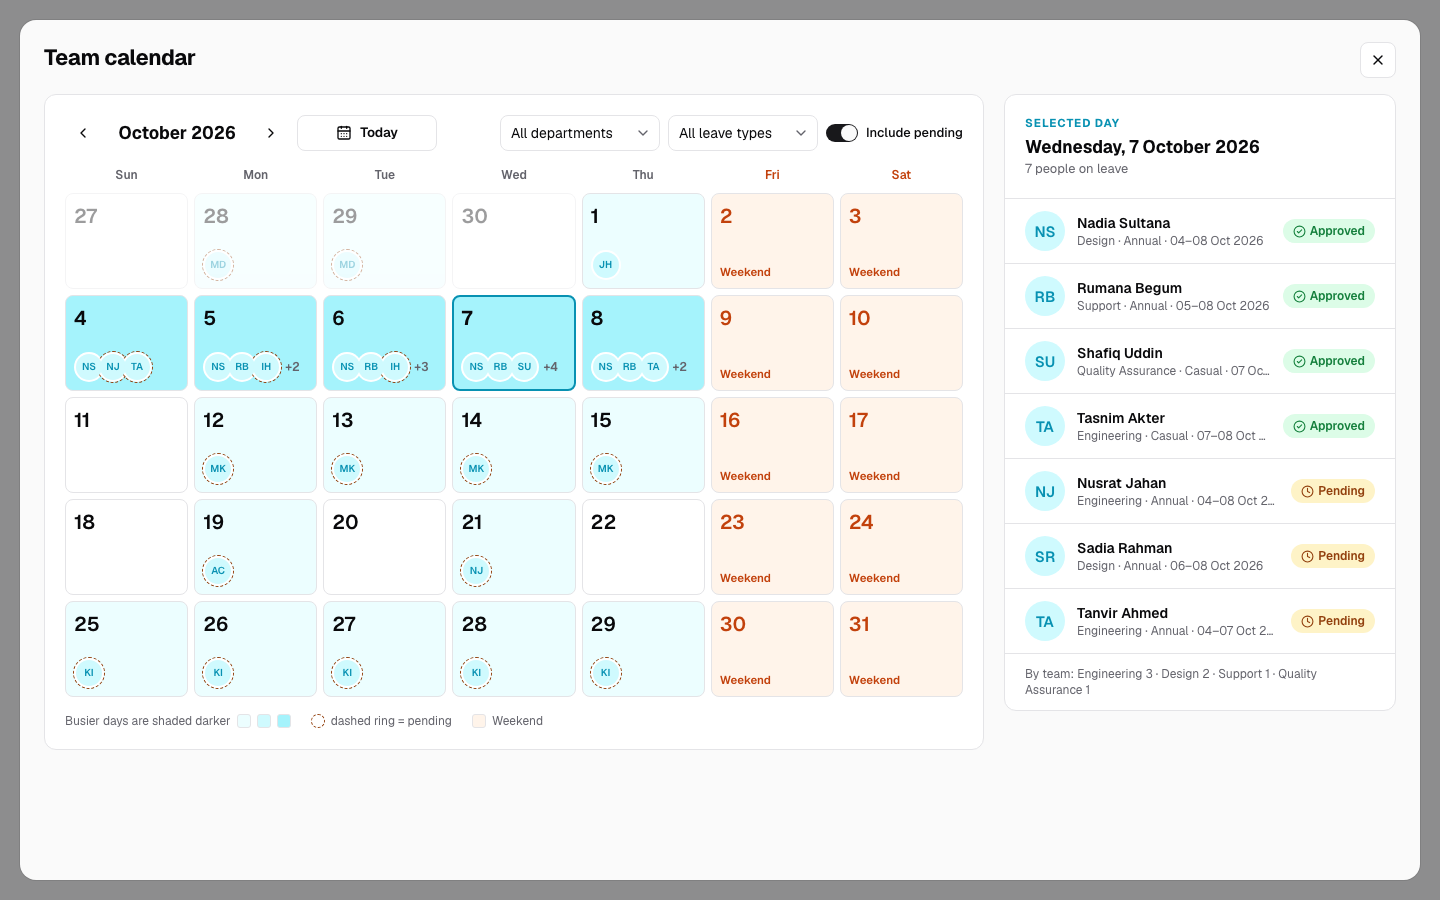
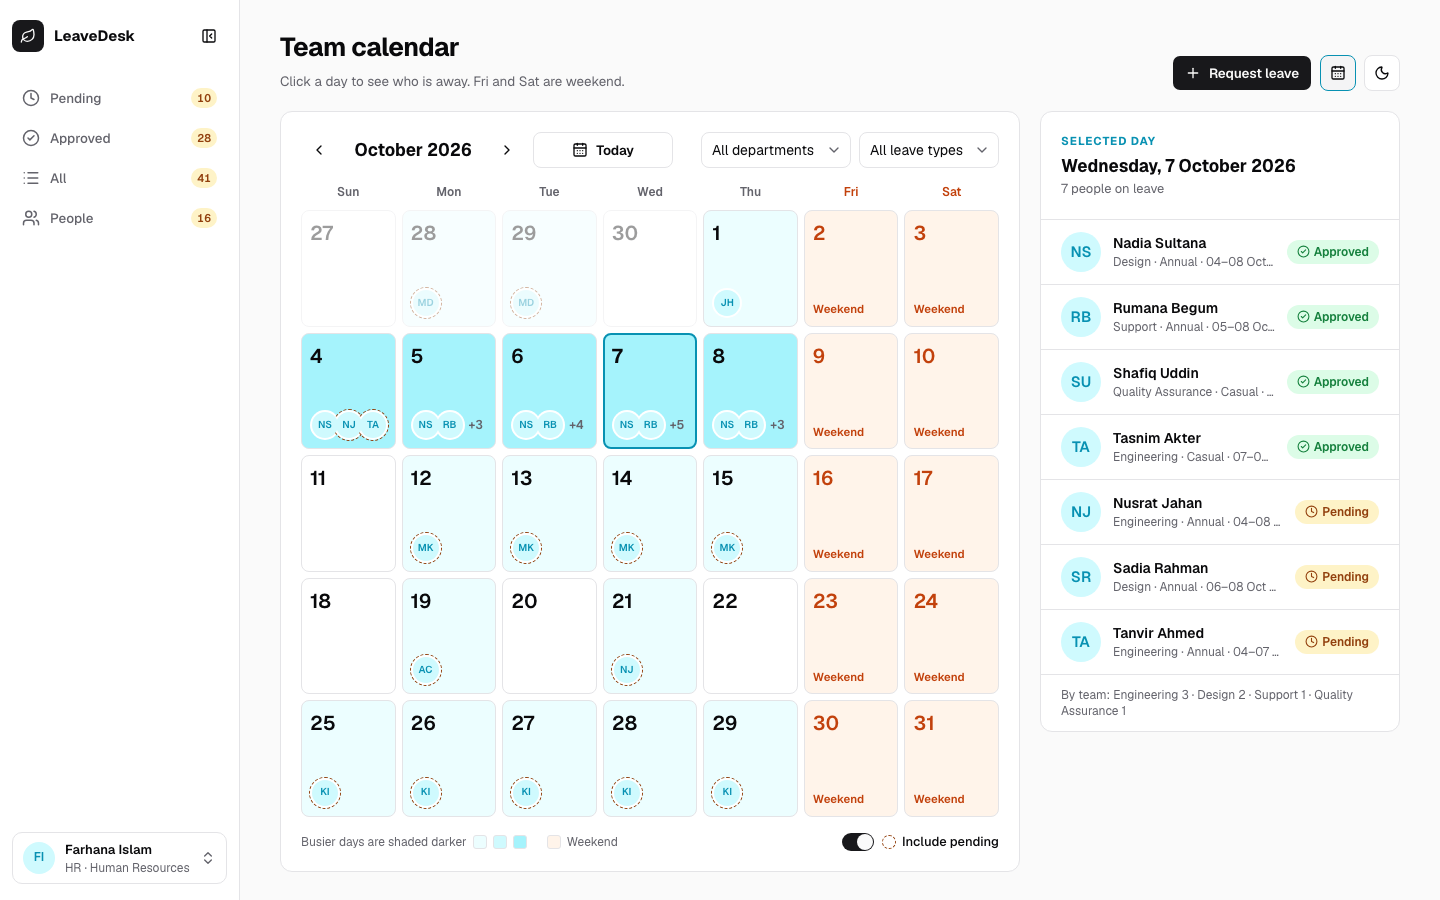
docs: the Team calendar is a page inside the app
EXPLANATION describes /calendar in the app shell (month and day in the
URL, the pressed header icon returning to the previous page) and the
mobile dot grid with the day list below. The README calendar screenshot
is retaken from the new page.

diff --git a/docs/EXPLANATION.md b/docs/EXPLANATION.md
@@ -77,7 +77,7 @@ migrations/             SQL files embedded in the binary, run with golang-migrat
 | `api/queries.ts` | Query keys, shared hooks, and `refreshLeaveData()`, which marks every view of leave data stale after a change. |
 | `features/auth/*` | `AuthProvider` (the `/me` query), route guards (signed in, guest, role), and the Sign in and Register pages. |
 | `layouts/AppShell.tsx` | The 80px rail (bottom tab bar on mobile), amber "new" dots, and the account menu. |
-| `layouts/HeaderActions.tsx` · `features/calendar/*` · `layouts/useNavCounts.ts` | The list-page header buttons (Request leave, Team calendar, theme, Export); the Team calendar page at `/calendar`, full screen like the former overlay, where the X or Esc goes back; and the sidebar's count badges, each from the same query as its page, so they refresh with it. |
+| `layouts/HeaderActions.tsx` · `features/calendar/*` · `layouts/useNavCounts.ts` | The list-page header buttons (Request leave, Team calendar, theme, Export); the Team calendar page at `/calendar` (inside the app shell; month and day in the URL; the header's calendar icon, pressed there, returns to the page it was opened from); and the sidebar's count badges, each from the same query as its page, so they refresh with it. |
 | `components/AppButton.tsx` | The only button: `labeled` (exactly 140×36 on desktop, full width at 44 or 48 on mobile and auth pages) or `icon` (36/44 square with aria-label and tooltip). Five variants. |
 | `components/DataTable.tsx` | The one table pattern: filter toolbar, server paging with 10 / 20 / 40 rows per page and "Showing 1–10 of 23". On mobile it switches to cards with a filter sheet and chips. |
 | `features/employee/*` | My leave, History, the request form (month picker, type picker, summary, attachment) and request details (with the PDF preview). |
@@ -199,7 +199,7 @@ Deleting a user cascades to their requests, limits, salaries and files.
 - **Undo** (`features/hr/decisions.ts`). A decision from a row or the review page is held for 5 seconds in a small store outside React, and the row is hidden meanwhile. Undo cancels the timer; otherwise the request is sent. Because the timer lives outside React, leaving the page doesn't lose it, and a `pagehide` handler sends held decisions with `fetch keepalive`.
 - **Request form.** The month picker shows only the user's own leave: the selection, their pending days as a dashed amber border, and Fri/Sat as weekend. Working days, "Available now" and "Left after this" are recomputed on every render. Submit is disabled while any rule fails. The server's message is shown if it disagrees (for example a request submitted from another tab).
 - **Design system.** Every colour is a CSS variable (`--surface`, `--pending-fg`, `--type-annual`, …) defined for `:root` (light) and `.dark`, then mapped to Tailwind classes. Themes change colours only, never sizes. The choice is stored in localStorage and defaults to the OS setting; an inline script applies it before first paint.
-- **Mobile (<768px).** The rail becomes a bottom tab bar. Tables become cards, filters move to a bottom sheet with chips, and the calendar opens full screen with a dot grid. Main actions sit in a 48px sticky bar above the tab bar. Touch targets are at least 44px.
+- **Mobile (<768px).** The rail becomes a bottom tab bar. Tables become cards, filters move to a bottom sheet with chips, and the calendar page uses a compact dot grid with the day list below it. Main actions sit in a 48px sticky bar above the tab bar. Touch targets are at least 44px.
 
 ## 7. Docker setup
 
